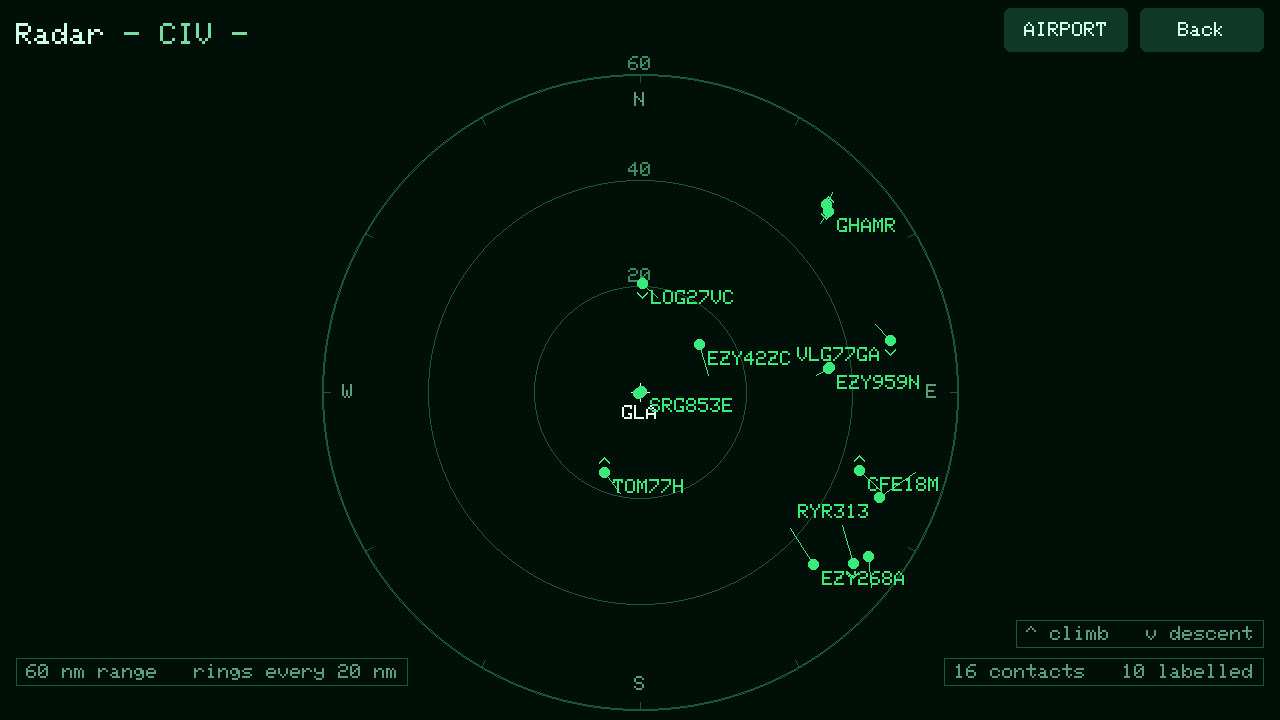
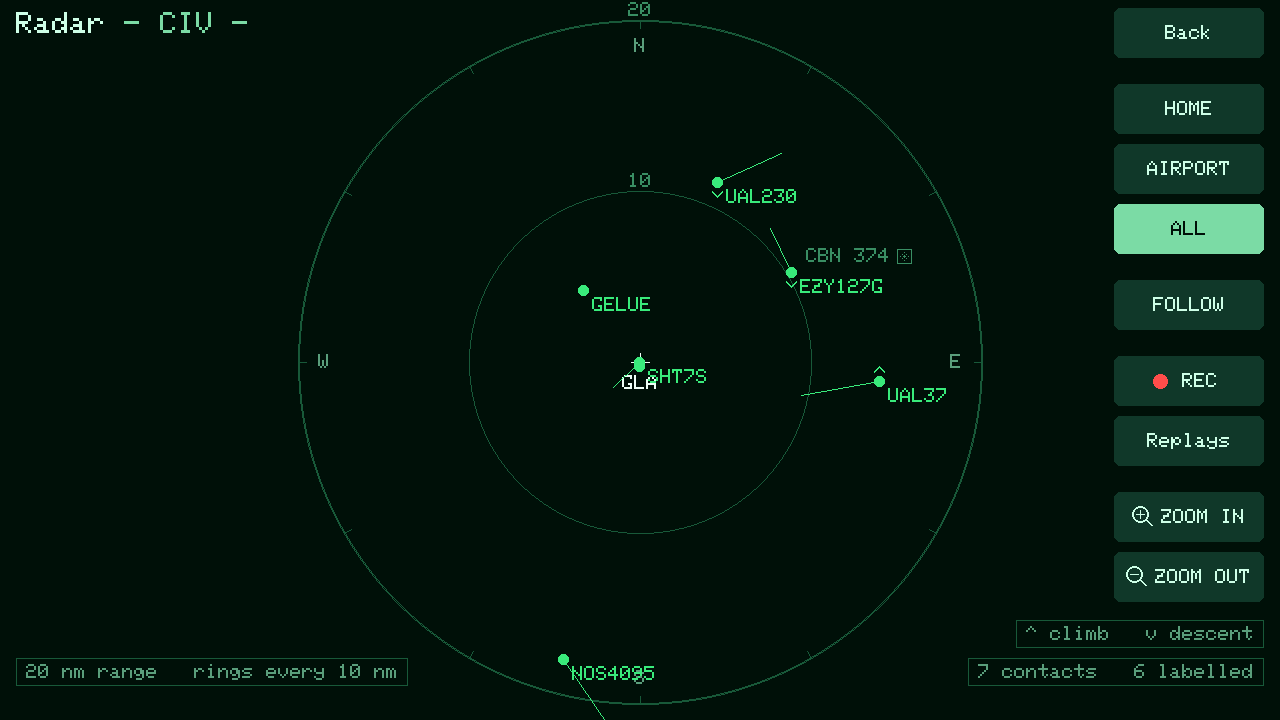
Retake every screenshot on v1.3.1, and add the zoom, following, alerts, help and about
The old ones were from before 1.3: no button column on the radar, no
FOLLOW or WATCH, no Help or About, and no airport zoom at all. The WiFi
name and address on the settings screen are placeholders, as on the
share screen, and the splash's corner reads v1.3.1. Notes that taking
screenshots stalls touch, and isn't answered during an export.

diff --git a/README.md b/README.md
@@ -6,12 +6,15 @@ A C++ rewrite of [Overhead](https://github.com/craigdianesmith-glitch/tab5-adsb-
 
 | | |
 | --- | --- |
-| ![The table of aircraft overhead](docs/screenshots/table.png) | ![The radar plot, centred on the nearest airport](docs/screenshots/radar.png) |
-| ![The detail screen for one flight](docs/screenshots/detail.png) | ![The settings screen](docs/screenshots/settings.png) |
-| ![A recording played back at 16x, with trails](docs/screenshots/replay.png) | ![A recording being exported to video](docs/screenshots/export.png) |
+| ![The table of aircraft overhead](docs/screenshots/table.png) | ![The radar around Glasgow, with every airport and the navaids marked](docs/screenshots/radar.png) |
+| ![Glasgow's airport zoom, with runway 23 in use](docs/screenshots/zoom.png) | ![The detail screen for one flight, with WATCH and FOLLOW](docs/screenshots/detail.png) |
+| ![Following an arrival on the radar, with its height charted on the left](docs/screenshots/follow.png) | ![The same arrival handed to Glasgow's zoom, on short final for runway 23](docs/screenshots/follow-zoom.png) |
+| ![A recording played back at 16x, an arrival on short final as another waits to line up](docs/screenshots/replay.png) | ![A recording exported to video, the aircraft's climb-out charted with its take-off](docs/screenshots/export.png) |
 | ![The recordings on the card, and the videos made from them](docs/screenshots/recordings.png) | ![Sharing over WiFi, with a QR code to the page](docs/screenshots/share.png) |
+| ![The settings screen](docs/screenshots/settings.png) | ![The alerts and recording settings](docs/screenshots/alerts.png) |
+| ![Help, on how to use the tracker](docs/screenshots/help.png) | ![About: the version, a disclaimer and the credits](docs/screenshots/about.png) |
 
-Captured from the device with `tools/screenshot.py` - see [Screenshots](#screenshots). The address and network name on the share screen are placeholders.
+Captured from the device with `tools/screenshot.py` - see [Screenshots](#screenshots). The address and network name on the settings and share screens are placeholders.
 
 ## Hardware
 
@@ -44,7 +47,7 @@ pip install pyserial pillow
 python tools/screenshot.py radar.png
 ```
 
-It is pixel-exact and the right way up whatever the device's orientation, and takes about three seconds. Close any serial monitor first. The script leaves DTR and RTS as the kernel sets them on open: clearing DTR while RTS is still raised is the ESP32's USB-serial reset signal, which is what pyserial's usual `dtr = False` sends. And it checks that the end marker follows the last pixel exactly, retrying if a log line from the poll task landed mid-transfer and shifted the image.
+It is pixel-exact and the right way up whatever the device's orientation, and takes about three seconds. The UI doesn't take touches while it is sent, so grabbing one every few seconds makes the device feel sluggish; and during a video export, which holds the main loop, the request isn't answered until the export ends. Close any serial monitor first. The script leaves DTR and RTS as the kernel sets them on open: clearing DTR while RTS is still raised is the ESP32's USB-serial reset signal, which is what pyserial's usual `dtr = False` sends. And it checks that the end marker follows the last pixel exactly, retrying if a log line from the poll task landed mid-transfer and shifted the image.
 
 ## Notable hardware quirks this project works around
 
